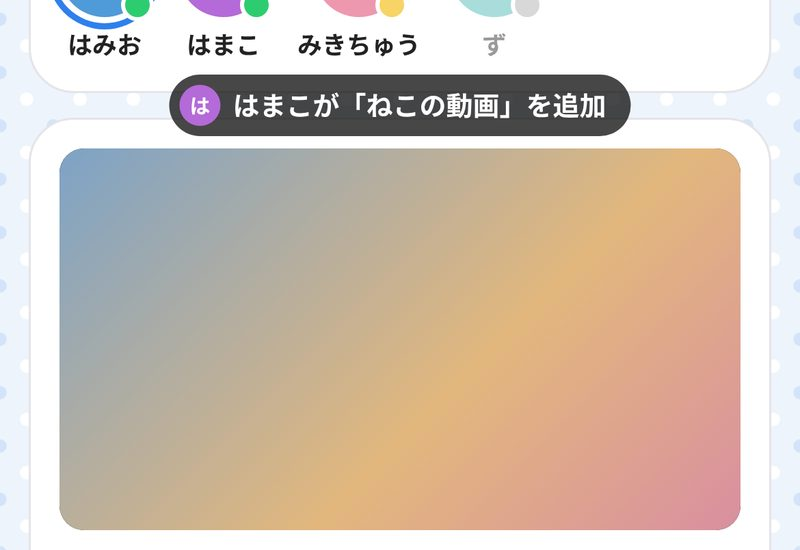
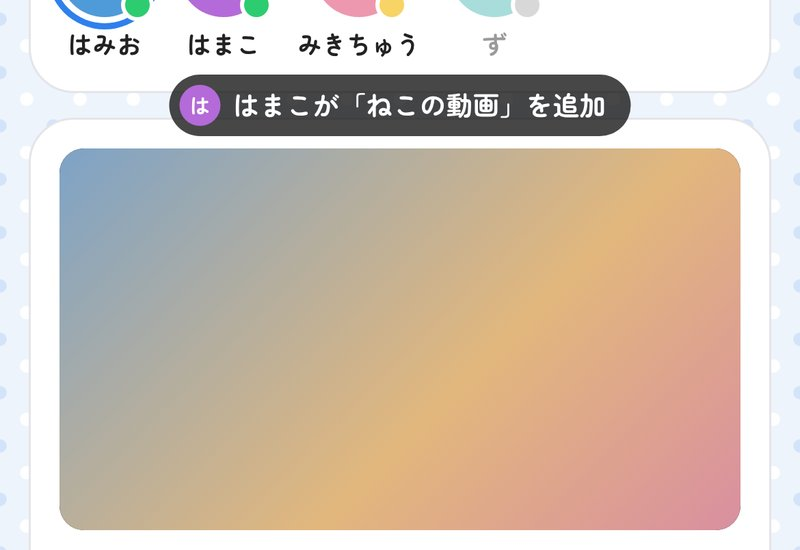
動画同時視聴：説明書をiPhone用とパソコン用に分けて作り直し、絵をページと同じフォントで撮り直し。URL欄と動画検索欄を分ける
Claude-Session: https://claude.ai/code/session_01GtDtUv9vA8Hxvx9HgQYeZD

diff --git a/party/index.html b/party/index.html
@@ -320,7 +320,7 @@ html.tv :focus{outline:4px solid #ff8a00!important;outline-offset:3px;box-shadow
 <script>
 {
 // 版（更新するたびに上げる。画面のいちばん下に小さく出す）
-const VER='2026.11.26-14';
+const VER='2026.11.26-15';
 const SEARCH='https://script.google.com/macros/s/AKfycbxmyUVVj-xb2ICGCtUM4-PhqlsCm4wvcCHjI-IzhZ8OUvDCRyLkJhrC1i1ZMiEnoQoSCQ/exec';
 const DB='https://kikohouse-943cf-default-rtdb.asia-southeast1.firebasedatabase.app';
 const ROOM=(location.hash.slice(1).match(/^[A-Za-z0-9]{24,64}$/)||[''])[0];
@@ -835,17 +835,20 @@ function openHelp(){const ov=el('div','ov'),sh=el('div','sheet hsheet');const hd
       if(/^IMG:/.test(x)){const im=el('img','himg');im.src='help/'+x.slice(4)+'?v='+VER;im.alt='';im.loading='lazy';d.append(im);return;}
       if(/^s:/.test(x)){d.append(tx(el('p','hs'),x.slice(2)));return;}
       d.append(tx(el('p','hb'),x));});bx.append(d);};
-    H('友だちを呼ぶ',['IMG:call.jpg']);
-    H('動画を入れる',['IMG:add.jpg','s:今すぐ＝すぐ流す　次に再生＝今の動画の次　後で再生＝いちばん最後']);
-    H('ボタン',['IMG:ctl.jpg','IMG:opt.jpg','押すと、みんなの画面も同じになる']);
-    H('見てる人',['IMG:mem.jpg','s:自分の丸を押すと、名前やアイコンを変えられる']);
-    H('知らせ',['IMG:toast.jpg','だれかが操作すると、ここに出る']);
-    H('みたいものリスト',['YouTubeの再生リストのURLを登録すると、見たい動画をすぐ入れられる','s:自分にだけ見える']);
-    H('小窓で見る',I?['1:動画をさわる','1:点線の丸を押す','1:[PIP] を押す']:['「小窓」ボタンを押す','s:パソコンのChromeだけ']);
-    if(!I)H('キーボード',['q:スペース / K|再生・停止','q:← / J|10秒戻す','q:→ / L|10秒進む','q:Shift＋N|次へ','q:Shift＋P|前へ','q:M|音を消す','q:F|全画面','q:C|字幕']);
-    H('テレビで見る',['IMG:tvwait.jpg','1:テレビのブラウザで wakiaseworld-cpu.github.io/kikohouse-app/tv を開く','1:出てきた番号を、ここに入れる','IMG:tvset.jpg','あとは部屋を開くだけで、テレビに映る','s:つなぐのは最初の1回だけ'].concat(I?[]:['s:Chromebookなら、Chromeの ⋮ →「保存して共有」→「キャスト」でも映せる']));
+    const G=n=>'IMG:'+(I?'i_':'o_')+n+'.jpg';
+    H('友だちを呼ぶ',[G('call')]);
+    H('動画を入れる',[G('add'),'q:今すぐ|今すぐ再生される','q:次に再生|今の動画が終わったら再生される','q:後で再生|最後に再生される']);
+    H('動画検索',[G('find'),'s:YouTubeの動画をさがして、そのまま入れられる']);
+    H('ボタン',[G('ctl'),G('opt'),'このボタンで操作したときだけ、みんなの動画も同じように動く',I?'s:YouTubeの画面（全画面など）で止めたり進めたりしても、みんなの動画は変わらない。自分の動画もすぐ元にもどる':'s:動画の上（YouTubeのボタン）やイヤホンのボタンで操作しても、みんなの動画は変わらない。自分の動画もすぐ元にもどる']);
+    H('見てる人',[G('mem'),'s:自分の丸を押すと、名前やアイコンを変えられる']);
+    H('通知',['IMG:toast.jpg','誰かが操作したとき・動画を追加したとき・入ってきたときに通知が出る','s:（ピクチャインピクチャなど、一部の画面では出ない）']);
+    H('みたいものリスト',[G('wl'),'YouTubeの再生リストのURLを登録すると、自分だけが見える状態でリストの中身をここで開ける','見たい動画をここから選んですぐ入れられる']);
+    if(I)H('小窓で見る',['1:動画をさわる','1:点線の丸を押す','1:[PIP] を押す']);
+    else{H('小窓で見る',['「小窓」ボタンを押す','s:パソコンのChromeだけ。詳細設定の「自動小窓」をオンにすると、再生したら自動で小窓になる']);
+      H('キーボード',['q:スペース / K|再生・停止','q:← / J|10秒戻す','q:→ / L|10秒進む','q:Shift＋N|次へ','q:Shift＋P|前へ','q:M|音を消す','q:F|全画面','q:C|字幕']);}
+    H('テレビで見る',['IMG:tvwait.jpg','1:テレビのブラウザで wakiaseworld-cpu.github.io/kikohouse-app/tv を開く','1:出てきた番号を、ここに入れる',G('tvset'),'あとは部屋を開くだけで、テレビに映る','s:つなぐのは最初の1回だけ'].concat(I?[]:['s:Chromebookなら、Chromeの ⋮ →「保存して共有」→「キャスト」でも映せる']));
     H('困ったとき',['q:音が出ない|「消音」を押す','q:「▶ を押してね」と出た|▶ を押す','q:ずっと読み込み中|ページを開き直す','q:流せない動画|⏭ で次へ','q:なんか変な動きをした|詳細設定 →「動きの記録」を画面写真で送る']);};
-  [['i','iPhone'],['o','iPhone以外']].forEach(([d,t])=>{const b=btn('tg',t,()=>paint(d));b.dataset.d=d;tb.append(b);});
+  [['i','iPhone'],['o','パソコン']].forEach(([d,t])=>{const b=btn('tg',t,()=>paint(d));b.dataset.d=d;tb.append(b);});
   paint(ls('hdev')||(iOS?'i':'o'));ov.append(sh);ov.addEventListener('click',e=>{if(e.target===ov)ov.remove();});document.body.append(ov);}
 // さがす画面：動画がまるごと見える位置までスクロールして、その下に画面を出す
 let FD=null;
